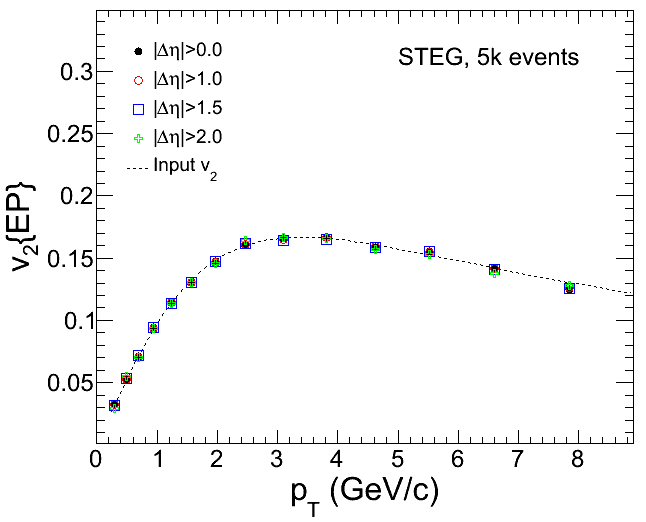
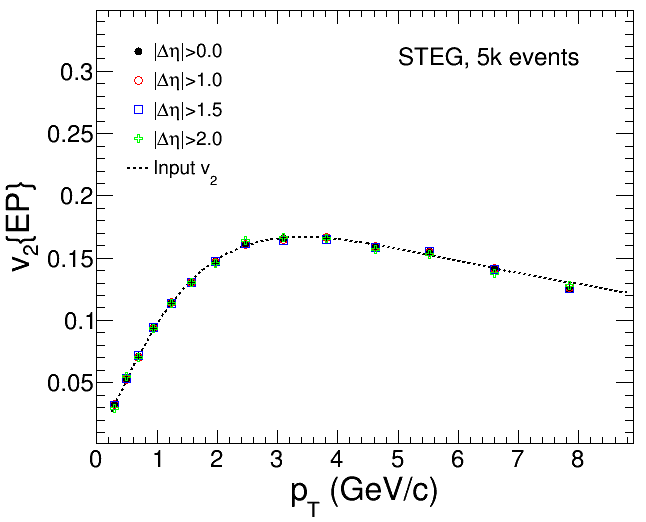
add v3 for Toy MC

diff --git a/eventplane/old2012/plotV3_gap0_gap1.C b/eventplane/old2012/plotV3_gap0_gap1.C
@@ -1,4 +1,4 @@
-void V2_gap0_gap1()
+void plotV3_gap0_gap1()
 {
 const int NCentBin=15;
 const int NCentBin24=24;
@@ -23,7 +23,7 @@ double temp;
   ifstream inv21;
   ifstream inv22;
   ifstream inv23;
-  inv2a.open("v2.txt");
+  inv2a.open("v3.txt");
   if(!inv2a.good())    cout<<" input fail"<<endl;
   else cout<<" have put in"<<endl;
   for(int i=0;i<NCentBin;i++){
@@ -65,9 +65,9 @@ double temp;
   c1->SetTicks(-1);
  TH1D* hist = new TH1D("hist","",100,0.,8.9);
  hist->SetXTitle("p_{T} (GeV/c)");
- hist->SetYTitle("v_{2}{EP}");
+ hist->SetYTitle("v_{3}{EP}");
  hist->SetMinimum(0.001);
- hist->SetMaximum(0.349);
+ hist->SetMaximum(0.209);
  hist->GetXaxis()->CenterTitle(1);
  hist->GetYaxis()->CenterTitle(1);
  hist->GetYaxis()->SetTitleOffset(1.1);
@@ -79,11 +79,15 @@ double temp;
  hist->Draw();
 
   TF1 *V2vsPt = new TF1("V2vsPt","((x/3.4)^1.8/(1+(x/3)^1.8))*(.00005+(1/x)^0.8)",0.2,10);
-  //TF1 *V2vsPt = new TF1("V2vsPt","0.000000001*x+0.04",0.2,10);
   V2vsPt->SetLineColor(1);
   V2vsPt->SetLineWidth(2);
   V2vsPt->SetLineStyle(2);
-  V2vsPt->Draw("same");
+  //V2vsPt->Draw("same");
+  TF1 *V3vsPt = new TF1("V3vsPt","((x/3.2)^2.3/(1+(x/3.4)^2.1))*(.00005+(1/x)^1.4)",0.2,10);
+  V3vsPt->SetLineColor(1);
+  V3vsPt->SetLineWidth(2);
+  V3vsPt->SetLineStyle(2);
+  V3vsPt->Draw("same");
 
   TGraphErrors *gr2 = new TGraphErrors(NCentBin,pt,v2a,0,v2ae);
       gr2->SetTitle("");
@@ -129,7 +133,8 @@ double temp;
     leg->AddEntry(gr3,"|#Delta#eta|>1.0","p");
     leg->AddEntry(gr4,"|#Delta#eta|>1.5","p");
     leg->AddEntry(gr5,"|#Delta#eta|>2.0","p");
-    leg->AddEntry(V2vsPt,"Input v_{2}","l");
+    //leg->AddEntry(V2vsPt,"Input v_{2}","l");
+    leg->AddEntry(V3vsPt,"Input v_{3}","l");
     leg->Draw();
   
     TLatex *tex1= new TLatex(5,0.305,"STEG, 5k events");
@@ -145,7 +150,7 @@ double temp;
     //tex2->Draw();
 
 
-  c1->Print("eventplanev2.png");
+  c1->Print("eventplanev3.png");
 
 }
 
